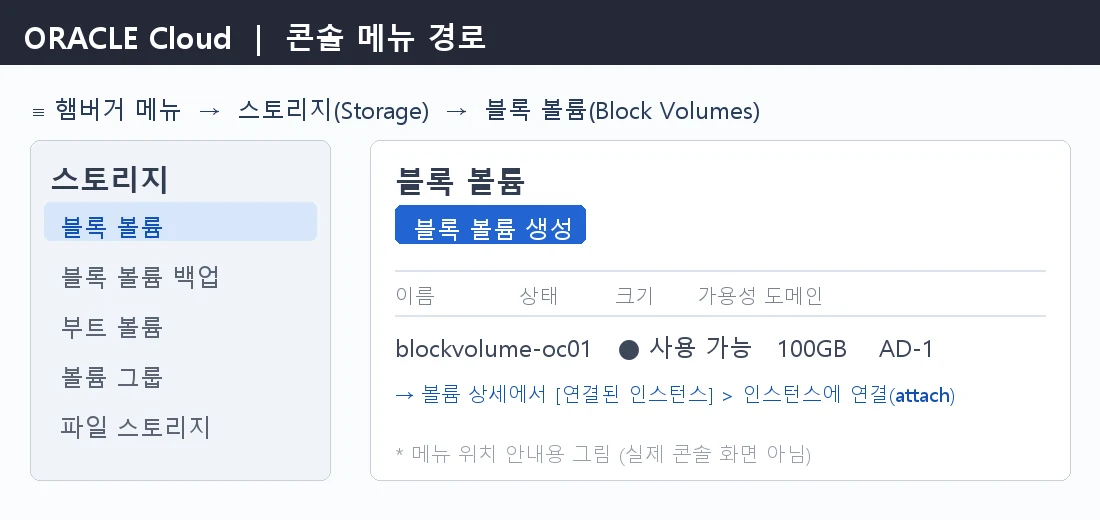
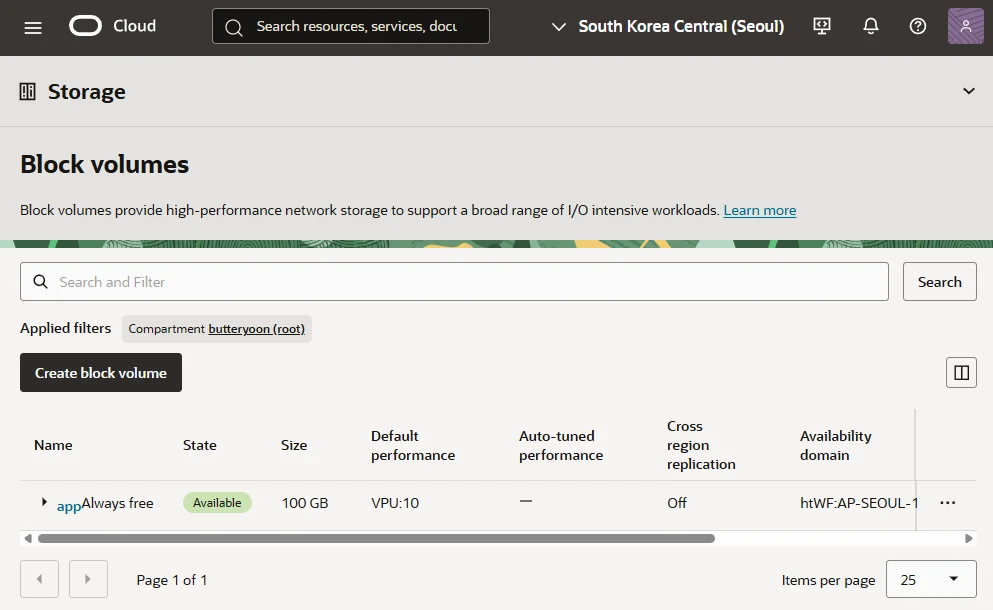
OCI 블록볼륨 글 이미지 교체: 콘솔 섹션에 실제 스크린샷, 타이틀은 Unsplash HDD 사진
Claude-Session: https://claude.ai/code/session_01GP584Scs1goEpQgpanpNdb

diff --git a/_posts/2026-09-09-oci-block-volume-attach.md b/_posts/2026-09-09-oci-block-volume-attach.md
@@ -5,7 +5,7 @@ title: "오라클 OCI 프리티어 인스턴스에 블록볼륨 추가하기"
 description: "Oracle Cloud 인스턴스에 블록 볼륨을 붙이는 전체 과정을 실제로 해보고 정리했다. 볼륨 attach부터 파티션/GPT 생성, ext4 포맷, /mnt/data 마운트, UUID 기반 fstab 자동마운트까지."
 img: oci_block_volume_title.webp
 date: 2026-09-09 23:30:00 +0900
-last_modified_at: 2026-09-10 00:40:00 +0900
+last_modified_at: 2026-09-10 01:00:00 +0900
 tags: [oci, oracle-cloud, block-volume, storage, mount, fstab, ext4] # add tag
 related: oci
 categories: tools
@@ -32,7 +32,7 @@ OCI 블록 볼륨을 쓰는 과정은 **두 레이어**로 나뉜다.
 
 OCI 관리 콘솔에서 햄버거 메뉴 → **스토리지(Storage)** → **블록 볼륨(Block Volumes)**으로 들어가면 볼륨 목록이 나온다. 여기서 **블록 볼륨 생성**으로 원하는 크기(프리티어는 부팅 볼륨 포함 총 200GB까지 무료)의 볼륨을 만들고, 생성된 볼륨의 상세 화면에서 **연결된 인스턴스 → 인스턴스에 연결(attach)**을 누르면 콘솔에서 할 일은 끝이다.
 
-![OCI 콘솔 블록 볼륨 메뉴 경로]({{site.baseurl}}/assets/img/oci_block_volume_console.webp)
+![OCI 콘솔 블록 볼륨 화면]({{site.baseurl}}/assets/img/oci_block_volume_console.webp)
 
 연결 유형은 기본값(반가상화, paravirtualized)을 쓰면 별도 iSCSI 명령 없이 OS에 바로 디바이스로 잡힌다. 이제부터는 인스턴스 안 리눅스에서의 작업이다.
 
@@ -151,3 +151,4 @@ OCI 블록 볼륨을 처음 만지면 가장 헷갈리는 게 "콘솔에서 atta
 - [OCI 블록 볼륨 연결 공식 문서](https://docs.oracle.com/en-us/iaas/Content/Block/Tasks/connectingtoavolume.htm)
 - [오라클 무료 인스턴스 시작하기]({{site.baseurl}}/tools/2021/01/18/oracle_cloud_start.html)
 - [OmniRoute 셀프호스팅 — RAM 1GB로 AI 게이트웨이 돌리기]({{site.baseurl}}/tools/2026/09/06/omniroute-selfhosting-oci.html)
+- 타이틀 사진: [Unsplash](https://unsplash.com/photos/VYfxkePredI){:target="_blank"}
